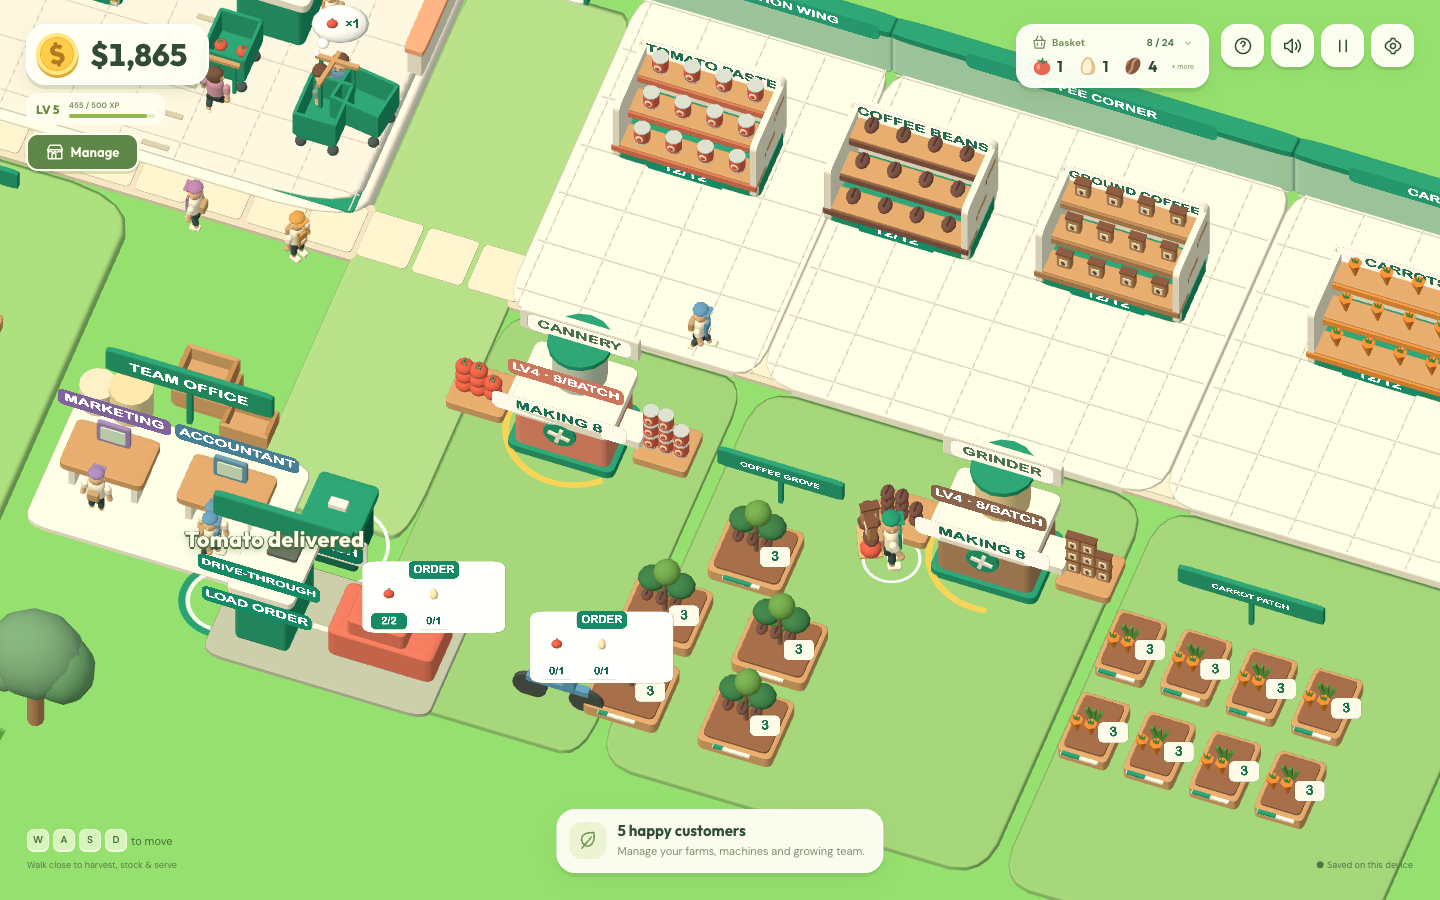
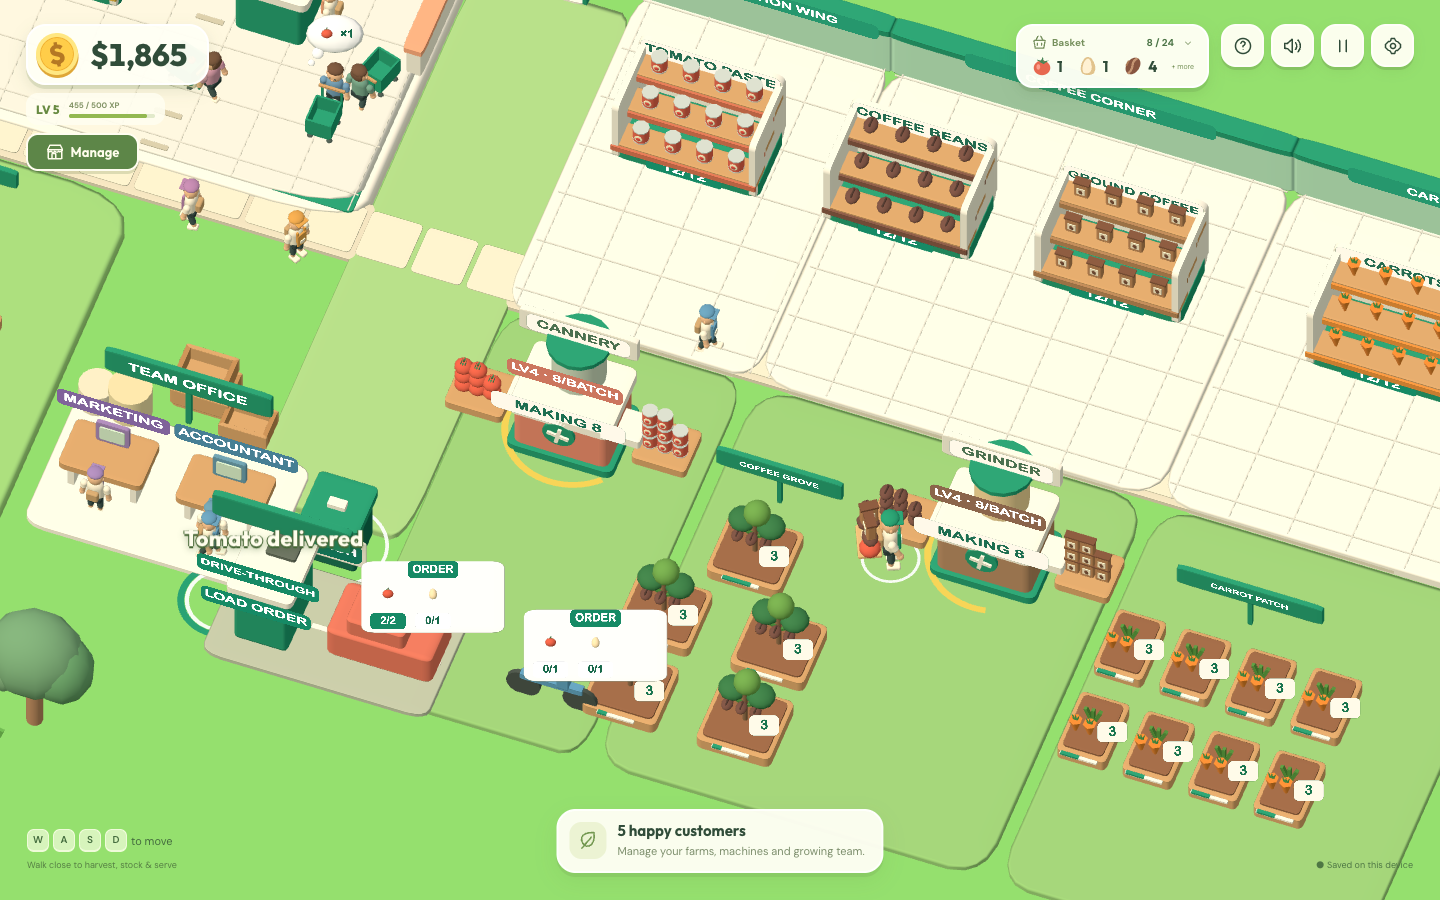
fix: reduce customer cart size

diff --git a/src/game/rendering/WorldRenderer.ts b/src/game/rendering/WorldRenderer.ts
@@ -213,6 +213,8 @@ export class WorldRenderer {
     for (let index = 0; index < GAME_CONFIG.customerMax; index += 1) {
       const model = createCharacter('customer');
       const cart = createShoppingCart(`customer:${index}:cart`);
+      cart.group.scale.setScalar(0.6);
+      cart.group.position.z = 0.29;
       model.group.add(cart.group);
       model.group.visible = false;
       this.scene.add(model.group);
